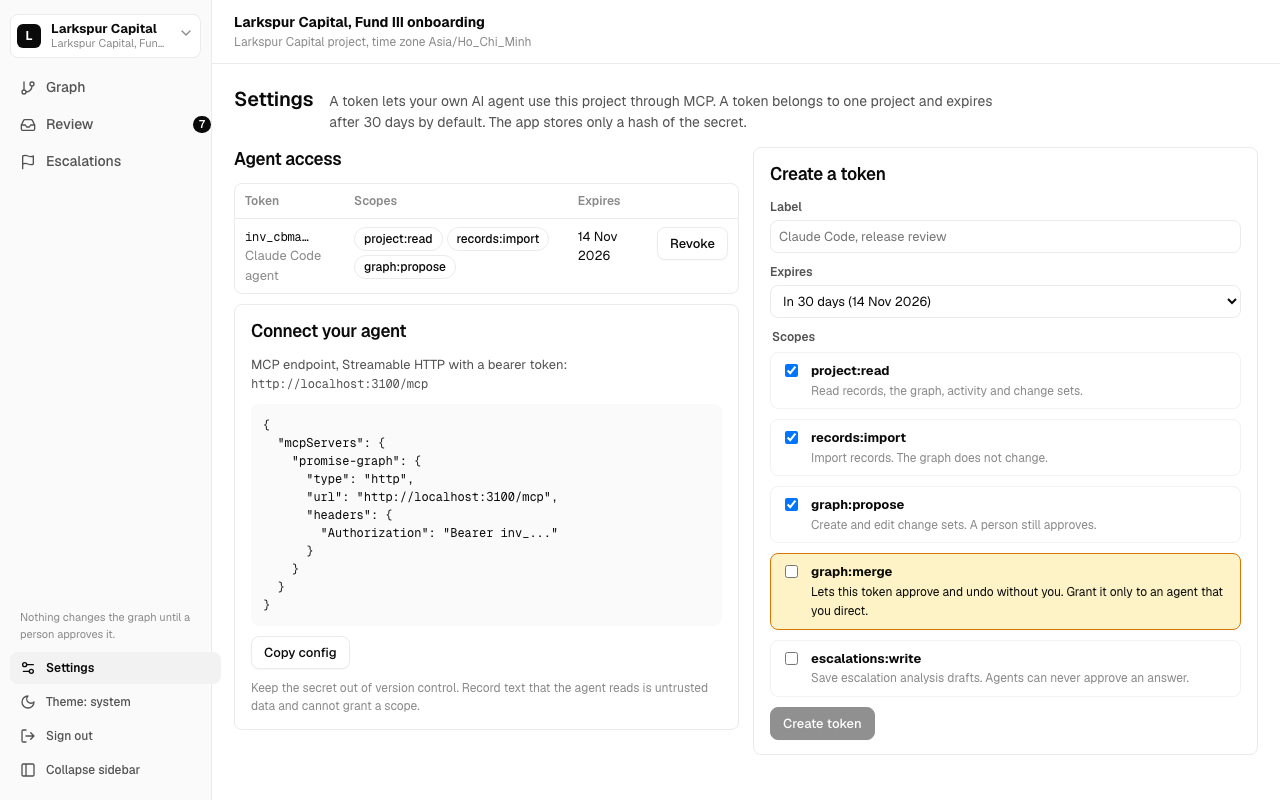
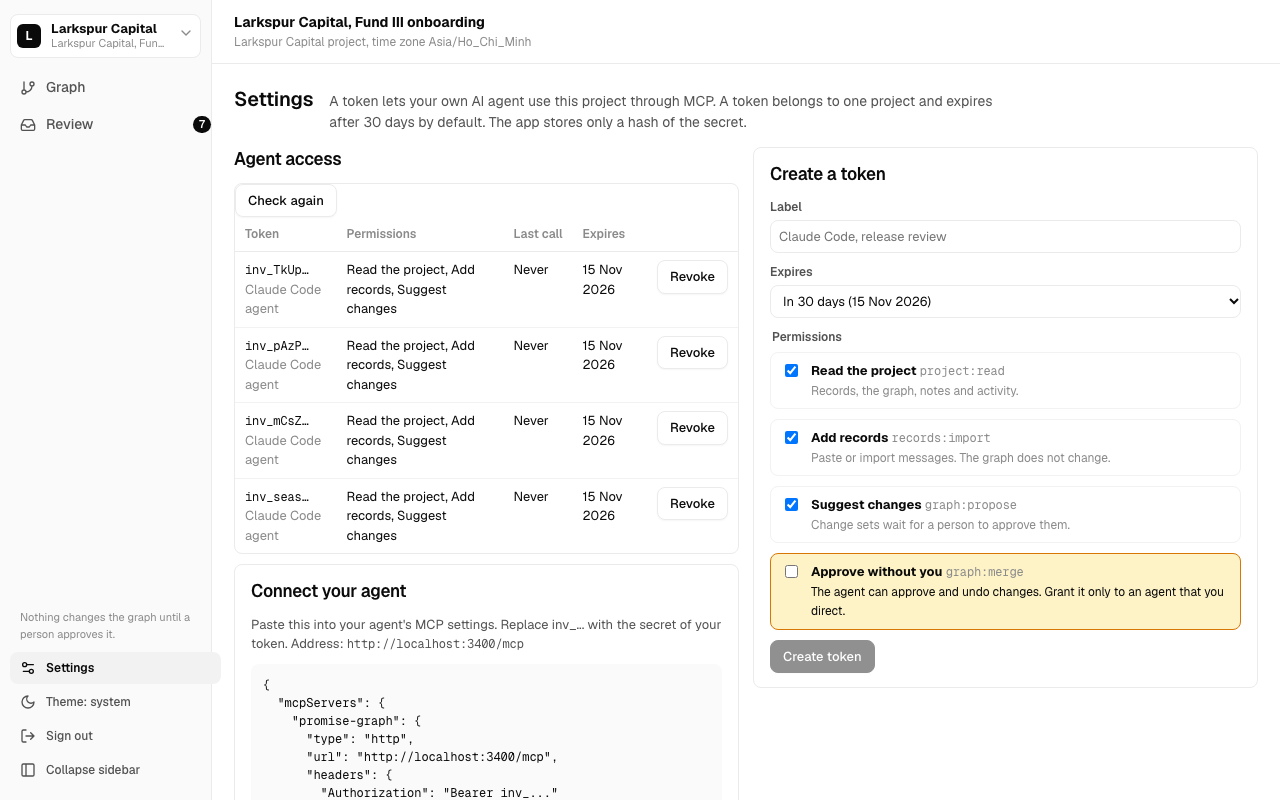
docs: retake the README screenshots from the current app

diff --git a/README.md b/README.md
@@ -14,7 +14,7 @@ It is for customer success and implementation managers. They must reconstruct a 
 
 ## Screenshots
 
-The screenshots come from a local development server on 15 October 2026, with the seeded sandbox.
+The screenshots come from a local development server on 16 October 2026, with the seeded sandbox.
 
 The approved graph with the loop panel open. The red branch has an `unanswered_request` breakdown, and the panel shows the cited quote in its message:
 
@@ -24,7 +24,7 @@ The Review screen with a change set selected: the change, its effect on the loop
 
 ![Review screen with a change set](docs/screenshots/review-queue.png)
 
-The Settings page: the agent access scopes, the MCP client snippet and a created token:
+The Settings page: the agent permissions, the MCP client snippet and a created token:
 
 ![Settings page with agent access](docs/screenshots/agent-tokens.png)
 
